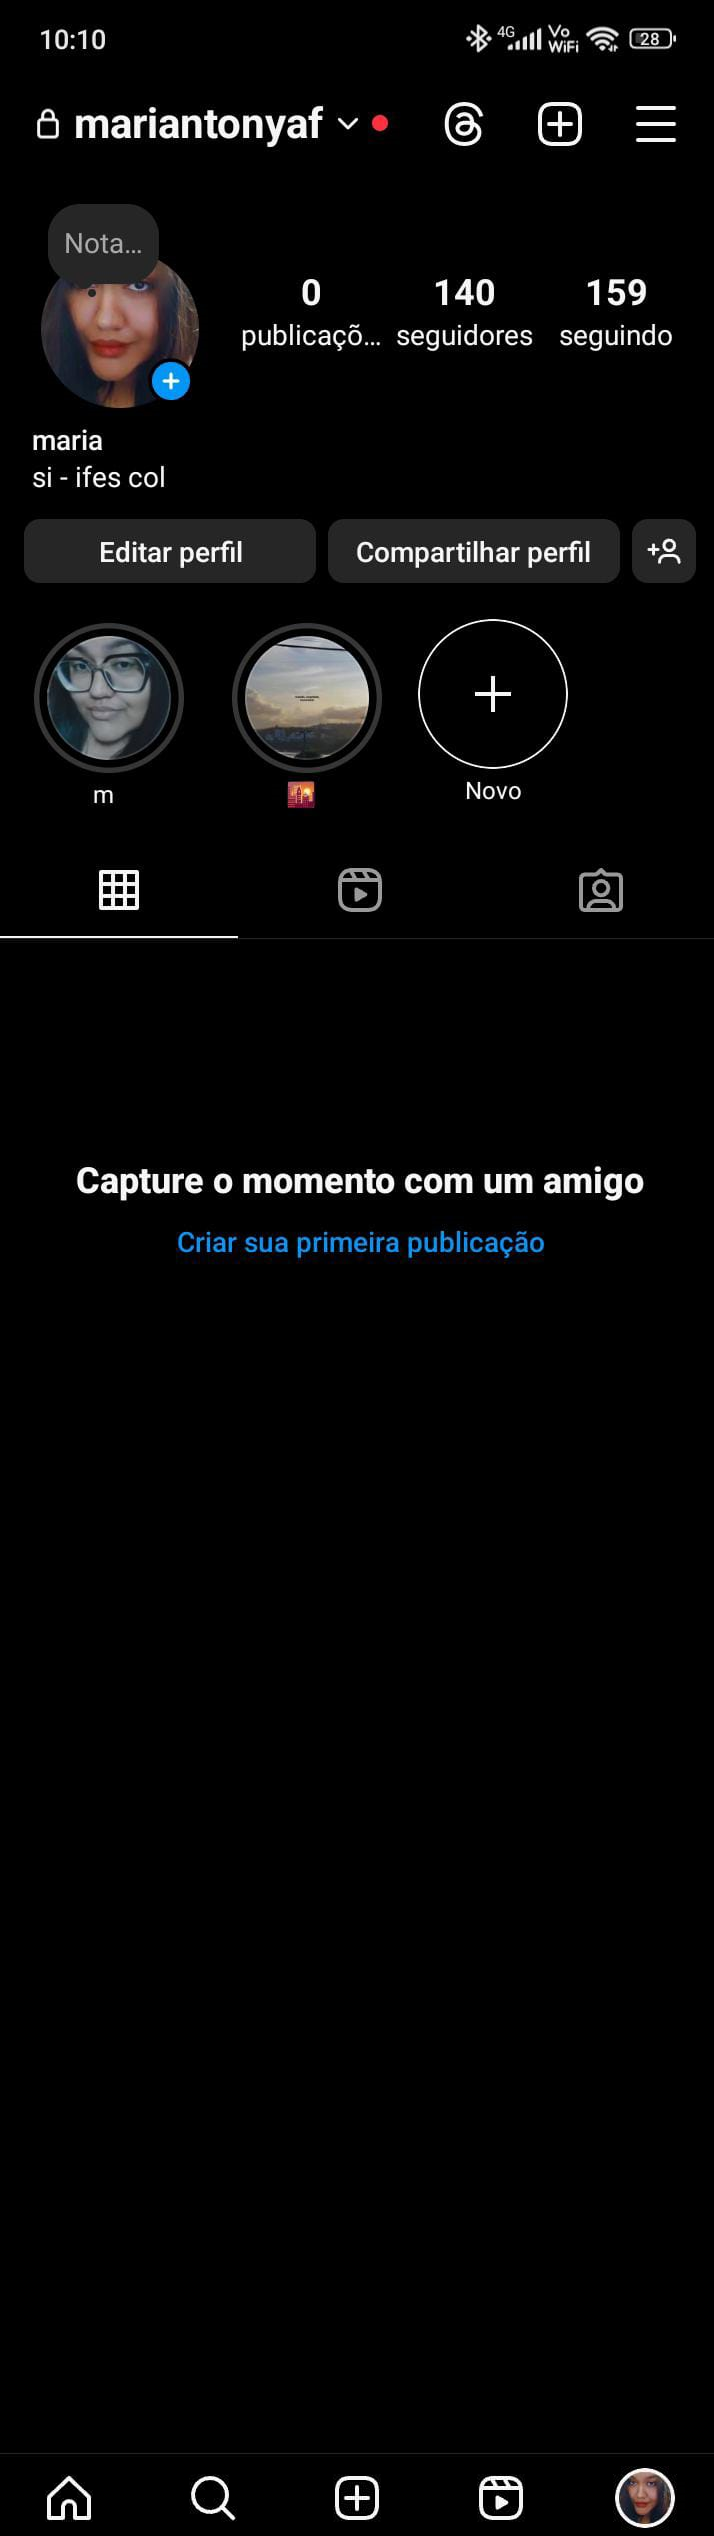
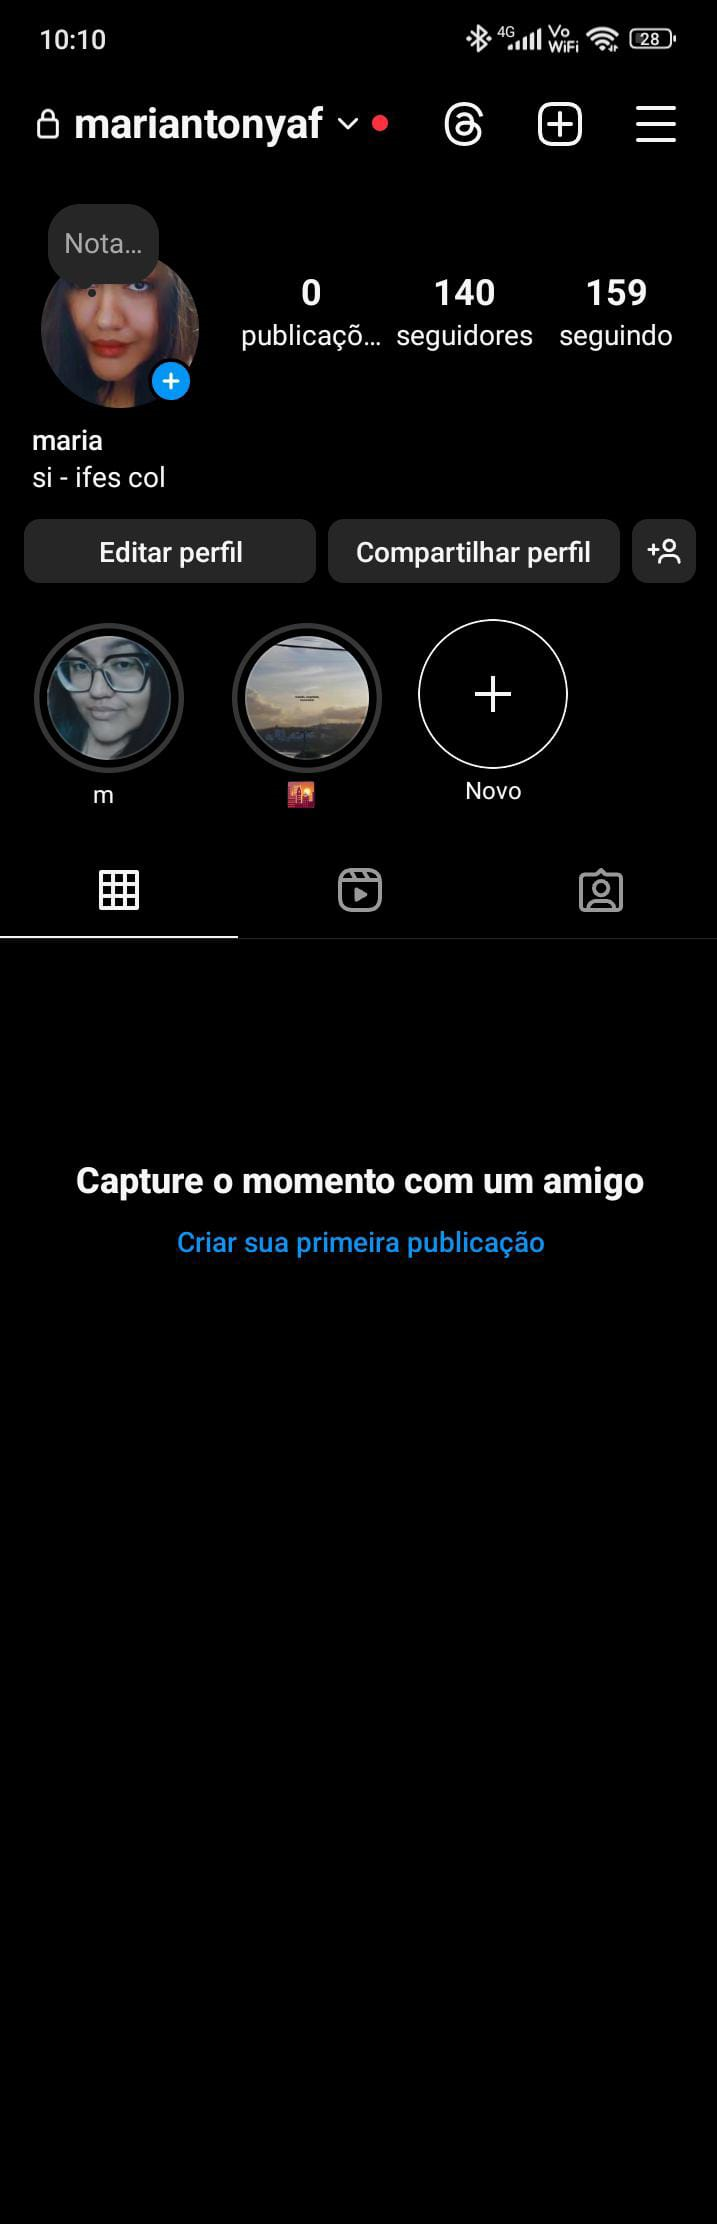
projeto003

diff --git a/github.html b/github.html
@@ -7,7 +7,7 @@
     <link rel="stylesheet" href="estilos/social.css">
 </head>
 <body>
-    <img src="imagens/tela-github.jpeg" alt="GitHub">
+    <img src="imagens/tela-github.png" alt="GitHub">
     <a href="https://github.com/mariantonyaf" target="_blank">ACESSE</a>
 </body>
 </html>
